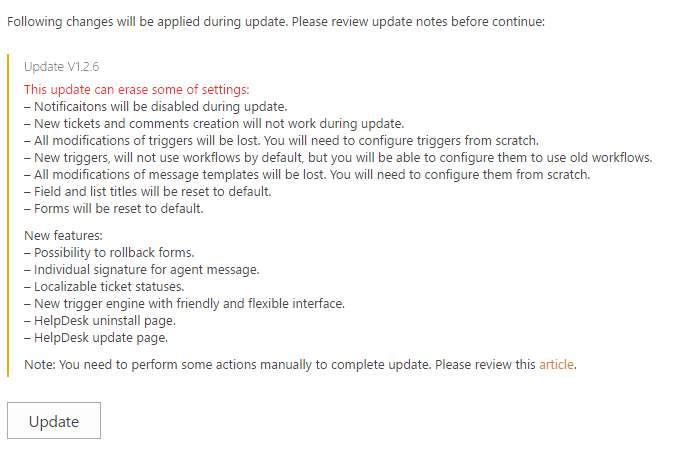
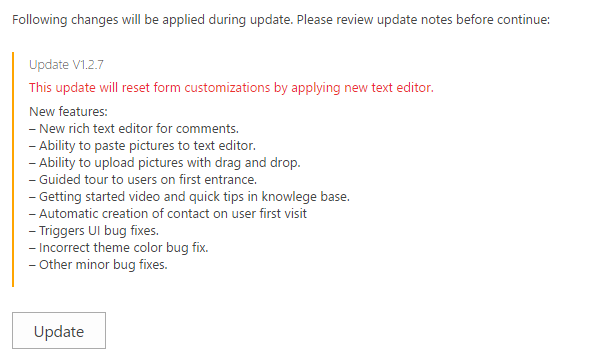
Changes in docs

Changed region(s): [[0.0, 0.1226, 0.9474, 0.8273], [0.0, 0.0306, 0.9474, 0.0919], [0.0, 0.8579, 0.1834, 0.9805]]

diff --git a/source/Configuration Guide/Upgrade manager.rst b/source/Configuration Guide/Upgrade manager.rst
@@ -13,7 +13,7 @@ Then click on "About" tab. You will see the interface of upgrade manager.
 
 |UpgradeManager|
 
-On the picture above you can see that HelpDesk has version 1.2.6 and at the moment this version is up to date. Also you can see that license type is "Production" and the expiration date is 09.12.2016.
+On the picture above you can see that HelpDesk has version 1.2.7 and at the moment this version is up to date. Also you can see that license type is "Production" and the expiration date is 09.12.2016.
 
 If version of your HelpDesk is not up to date and your account have "Manage Web" permissions then you will see the list of updates with full description of each update.
 
@@ -21,30 +21,8 @@ If version of your HelpDesk is not up to date and your account have "Manage Web"
 
 To install update you can click "Update" button.
 
-Upgrade to version 1.2.6
-------------------------
-
-This update can erase some of settings:
-
-- Notifications will be disabled during update.
-- New tickets and comments creation will not work during update.
-- All modifications of triggers will be lost. You will need to configure triggers from scratch.
-- New triggers, will not use workflows by default, but you will be able to configure them to use old workflows.
-- All modifications of message templates will be lost. You will need to configure them from scratch.
-- Field and list titles will be reset to default.
-- Forms will be reset to default.
-
-New features:
-
-- Possibility to `rollback forms`_.
-- Individual `signature`_ for agent message.
-- Localizable `ticket statuses`_.
-- New `trigger engine`_ with friendly and flexible interface.
-- HelpDesk `uninstall page`_.
-- HelpDesk update page.
-
 Manual steps
-~~~~~~~~~~~~
+++++++++++++
 
 You need to perform some actions manually to complete update:
 
@@ -65,8 +43,3 @@ You need to perform some actions manually to complete update:
 .. |UpdateAvailable| image:: /_static/img/upgrade-manager-1.png
    :alt: Update Available
 
-.. _rollback forms: Forms%20customization.html#forms-backups
-.. _signature: ../User%20Guide/Contacts.html#signature
-.. _ticket statuses: Statuses%20customization.html
-.. _trigger engine: Triggers.html
-.. _uninstall page: Uninstall%20HelpDesk.html
